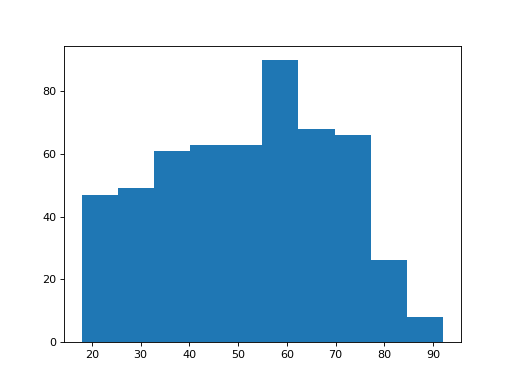
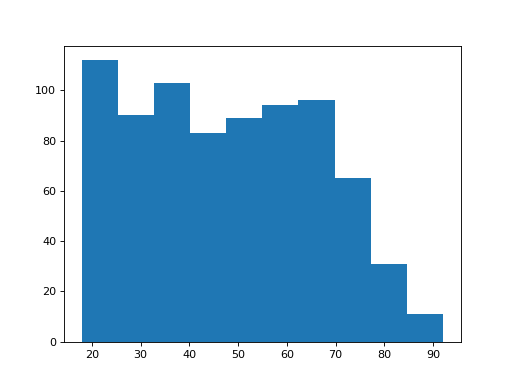
Update documentation

diff --git a/searchindex.js b/searchindex.js
@@ -1,1 +1,1 @@
-Search.setIndex({docnames:["brexit","index","setup_beforehand","simulating_chi2","when_where"],envversion:53,filenames:["brexit.rst","index.rst","setup_beforehand.rst","simulating_chi2.rst","when_where.rst"],objects:{},objnames:{},objtypes:{},terms:{"10am":4,"18th":2,"19th":4,"20th":4,"21st":4,"4pm":4,"break":3,"case":0,"class":4,"default":2,"final":0,"import":[0,3],"long":0,"new":[0,3],"return":3,"short":0,"true":3,"try":0,"while":3,And:0,But:0,For:0,The:[0,1,2,3,4],There:0,These:[0,1],Use:3,Yes:0,about:0,abov:[0,2],account:2,actual:0,actual_chi2:3,afternoon:4,again:0,age:0,ages:0,algorithm:1,all:[0,2,3,4],along:2,also:0,anaconda:2,analys:2,analysi:[0,2],ani:[0,2,3],answer:0,anytim:2,appear:0,append:3,around:4,arrai:3,ask:0,audit_data:0,audit_of_political_engagement_14_2017:0,avail:0,axi:3,back:0,becaus:0,befor:[0,4],beforehand:[1,4],begin:4,bham:2,bin:3,bioscienc:2,birmingham:1,bit:[0,2],blanklin:0,book:4,bother:2,brett:2,brexit_ag:0,bring:4,build:[2,4],busi:4,call:0,campu:4,can:[0,3],care:0,catalogu:0,chanc:0,check:0,chi2:3,choos:2,claim:0,clean:0,clear:0,cloud:2,clutter:0,code:0,coder:0,column:[0,3],column_tot:3,com:2,come:[0,2],comma:0,common:2,compar:0,comput:2,concat:0,confess:0,confid:0,consid:[0,3],consist:0,consol:[0,3],contain:0,continu:[0,3],conveni:0,convert:0,copi:0,count:3,cours:4,csv:0,cu0410:0,cu041:0,cu042:0,cu043:0,cu044:0,cu045:0,cu046:0,cu047:0,cu048:0,cu049:0,cut15:0,dai:[1,4],data:[0,2],def:3,delimit:0,depend:2,describ:0,detail:2,dictionari:0,did:0,differ:[0,4],directli:0,directori:0,discov:0,distribut:[0,2],document:0,doesn:2,don:4,download:[0,2],drawn:3,drop:0,each:[0,4],easi:2,els:3,email:2,empti:3,enabl:[0,3],engag:0,equal:[0,3],european:0,everi:0,example_t:3,expected_prob:3,expected_t:3,fals:[0,3],few:0,file:0,fill:1,find:0,first:[0,3,4],first_as_big:3,floor:2,focu:0,follow:[0,2],forev:3,forget:4,format:0,found:2,frame:0,free:2,freeli:0,from:[0,2,3],gener:2,geographi:4,get:[0,2,3,4],give:[0,3],going:[0,2],good:0,googl:0,graphic:2,ground:2,gs_tabl:3,hansard:0,has:0,have:[0,2],heart:4,hei:2,help:0,here:[0,2,3,4],hire:[0,3],hist:[0,3],histogram:0,hour:4,how:0,http:[0,2],idea:0,ident:0,implicit:0,index:0,individu:3,inform:0,inlin:[0,3],instal:2,instruct:2,interact:[0,3],interest:0,ipython:[0,3],is_man:3,is_studi:3,jupyt:[0,3],just:[0,2],keep:0,kingdom:0,know:[2,4],label:0,languag:2,laptop:4,larg:0,last:0,later:0,law:4,lead:1,leav:0,len:[0,3],let:0,librari:0,like:[0,3],linux:2,list:0,littl:2,load:0,look:0,lot:0,lucki:0,luckili:0,mac:2,made:0,make:[0,2,3],make_similar_t:3,make_t:3,man:3,map:4,matplotlib:[0,3],matthew:2,mean:0,member:0,memor:0,memori:0,men:3,might:0,moment:0,mondai:2,more:0,much:0,n_men:3,n_observ:3,n_repeat:3,name:0,nearli:2,need:[0,2,4],new_arrai:3,new_tabl:3,next:0,nice:0,notebook:[0,3],notic:[0,2],now:[0,2],numag:0,number:[0,3],number_as_big:3,numpi:3,o_minus_:3,observ:3,odd:0,oe2_:3,off:[0,4],offic:2,often:0,one:0,ones:0,onli:[0,3],onlin:0,open:2,oper:2,origin:[0,3],otherwis:0,our:[0,2],ourselv:0,out:[0,1,4],over:4,p_man:3,p_not_studi:3,p_studier:3,p_woman:3,packag:[0,2],page:1,panda:0,part:0,pdf:[0,3],peopl:[0,3],per:0,percentag:0,person:0,platform:2,pleas:4,plot:[0,3],plt:[0,3],png:[0,3],polit:0,popular:0,power:0,print:3,probabl:3,problem:2,prompt:2,proport:0,proportion_as_big:3,provid:2,put:0,pyplot:[0,3],python:[0,2],question:0,r15:4,random:3,rang:3,rather:0,read:0,read_csv:0,read_tabl:0,readi:0,recommend:2,record:0,reduc:0,refer:0,referendum:0,refus:0,remain:0,remain_leav:0,remain_leave_reload:0,rememb:0,remind:0,renam:0,respond:0,rich:0,room:4,row:[0,3],row_tot:3,run:[0,3],s_chi2:3,safe:0,sai:0,said:0,sampl:0,save:0,scienc:2,search:0,see:[0,2],seed:3,select:0,separ:0,septemb:4,servic:0,session:4,setup:[1,4],sg24:2,should:0,simpl:[0,2],simulated_chi2:3,simulated_t:3,site:0,slice:3,societi:0,someth:0,sort:3,sourc:2,sponsor:0,spot:0,spreadsheet:0,stack:0,stackoverflow:0,stand:0,standard:[0,2,4],start:[2,4],state:0,step:2,studier:3,subject:0,subscrib:2,sum:3,sure:4,survei:[0,3],system:2,tab:0,tabl:[0,3],term:4,text:0,thei:0,thi:[0,3,4],thing:0,those:0,three:4,through:0,thursdai:4,time:4,tini:0,to_csv:0,togeth:0,too:[0,3],toolkit:2,topic:0,total:[3,4],tuesdai:4,turn:4,two:[0,3],type:0,ukdataservic:0,unchang:0,unfortun:4,union:0,unit:0,univers:1,unless:2,until:3,use:[0,2,3],used:2,using:[0,2],valu:[0,3],vari:2,variabl:0,veri:0,version:2,vote:0,voter:0,wai:0,wait:0,want:[0,2],web:1,wednesdai:4,were:0,what:[0,2],when:1,where:[0,1],whether:0,which:[0,2],who:0,window:2,within:0,woman:3,work:0,wouldn:2,www:2,year:0,you:[0,2,4],young:0,your:[0,2,4],yourself:0,zero:3},titles:["Analyzing Brexit","A pilot course on teaching data analysis","Setup beforehand","Chi-squared by simulation","When and where"],titleterms:{analysi:1,analyz:0,beforehand:2,brexit:0,chi:3,cours:1,data:1,pilot:1,setup:2,simul:3,squar:3,teach:1,when:4,where:4}})
+Search.setIndex({docnames:["brexit","index","setup_beforehand","simulating_chi2","when_where"],envversion:53,filenames:["brexit.rst","index.rst","setup_beforehand.rst","simulating_chi2.rst","when_where.rst"],objects:{},objnames:{},objtypes:{},terms:{"10am":4,"18th":2,"19th":4,"20th":4,"21st":4,"4pm":4,"break":3,"case":0,"class":4,"default":2,"final":0,"function":0,"import":[0,3],"long":0,"new":[0,3],"return":3,"short":0,"true":3,"try":0,"while":3,And:0,But:0,For:0,The:[0,1,2,3,4],There:0,These:[0,1],Use:3,Yes:0,about:0,abov:[0,2],account:2,actual:0,actual_chi2:3,afternoon:4,again:0,age:0,ages:0,algorithm:1,all:[0,2,3,4],along:2,also:0,anaconda:2,analys:2,analysi:[0,2],ani:[0,2,3],answer:0,anytim:2,appear:0,append:3,around:4,arrai:3,ask:0,audit_data:0,audit_of_political_engagement_14_2017:0,avail:0,axi:3,back:0,becaus:0,befor:[0,4],beforehand:[1,4],begin:4,bham:2,bin:3,bioscienc:2,birmingham:1,bit:[0,2],blanklin:0,book:4,bother:2,brett:2,brexit_ag:0,bring:4,build:[2,4],busi:4,call:0,campu:4,can:[0,3],care:0,catalogu:0,chanc:0,check:0,chi2:3,choos:2,claim:0,clean:0,clear:0,cloud:2,clutter:0,code:0,coder:0,column:[0,3],column_tot:3,com:2,come:[0,2],comma:0,common:2,compar:0,comput:2,concat:0,confess:0,confid:0,consid:[0,3],consist:0,consol:[0,3],contain:0,continu:[0,3],conveni:0,convert:0,copi:0,count:3,cours:4,csv:0,cu0410:0,cu041:0,cu042:0,cu043:0,cu044:0,cu045:0,cu046:0,cu047:0,cu048:0,cu049:0,cut15:0,dai:[1,4],data:[0,2],def:3,delimit:0,depend:2,describ:0,detail:2,dictionari:0,did:0,differ:[0,4],directli:0,directori:0,discov:0,distribut:[0,2],document:0,doesn:2,don:4,download:[0,2],drawn:3,drop:0,each:[0,4],easi:2,els:3,email:2,empti:3,enabl:[0,3],engag:0,equal:[0,3],european:0,everi:0,example_t:3,expected_prob:3,expected_t:3,fals:[0,3],few:0,file:0,fill:1,find:0,first:[0,3,4],first_as_big:3,floor:2,focu:0,follow:[0,2],forev:3,forget:4,format:0,found:2,frame:0,free:2,freeli:0,from:[0,2,3],gener:2,geographi:4,get:[0,2,3,4],give:[0,3],going:[0,2],good:0,googl:0,graphic:2,ground:2,gs_tabl:3,hansard:0,has:0,have:[0,2],heart:4,hei:2,help:0,here:[0,2,3,4],hire:[0,3],hist:[0,3],histogram:0,hour:4,how:0,http:[0,2],idea:0,ident:0,implicit:0,index:0,individu:3,inform:0,inlin:[0,3],instal:2,instruct:2,interact:[0,3],interest:0,ipython:[0,3],is_man:3,is_studi:3,jupyt:[0,3],just:[0,2],keep:0,kingdom:0,know:[2,4],label:0,languag:2,laptop:4,larg:0,last:0,later:0,law:4,lead:1,leav:0,len:[0,3],let:0,librari:0,like:[0,3],linux:2,list:0,littl:2,load:0,look:0,lot:0,lucki:0,luckili:0,mac:2,made:0,make:[0,2,3],make_similar_t:3,make_t:3,man:3,map:4,matplotlib:[0,3],matthew:2,mean:0,member:0,memor:0,memori:0,men:3,might:0,moment:0,mondai:2,more:0,much:0,n_men:3,n_observ:3,n_repeat:3,name:0,nearli:2,need:[0,2,4],new_arrai:3,new_tabl:3,next:0,nice:0,notebook:[0,3],notic:[0,2],now:[0,2],numag:0,number:[0,3],number_as_big:3,numpi:3,o_minus_:3,observ:3,odd:0,oe2_:3,off:[0,4],offic:2,often:0,one:0,ones:0,onli:[0,3],onlin:0,open:2,oper:2,origin:[0,3],otherwis:0,our:[0,2],ourselv:0,out:[0,1,4],over:4,p_man:3,p_not_studi:3,p_studier:3,p_woman:3,packag:[0,2],page:1,panda:0,part:0,pdf:[0,3],peopl:[0,3],per:0,percentag:0,person:0,platform:2,pleas:4,plot:[0,3],plt:[0,3],png:[0,3],polit:0,popular:0,power:0,print:3,probabl:3,problem:2,prompt:2,proport:0,proportion_as_big:3,provid:2,put:0,pyplot:[0,3],python:[0,2],question:0,r15:4,random:3,rang:3,rather:0,read:0,read_csv:0,read_tabl:0,readi:0,recommend:2,record:0,reduc:0,refer:0,referendum:0,refus:0,remain:0,remain_leav:0,remain_leave_reload:0,rememb:0,remind:0,renam:0,respond:0,rich:0,room:4,row:[0,3],row_tot:3,run:[0,3],s_chi2:3,safe:0,sai:0,said:0,sampl:0,save:0,scienc:2,search:0,see:[0,2],seed:3,select:0,separ:0,septemb:4,servic:0,session:4,setup:[1,4],sg24:2,should:0,simpl:[0,2],simulated_chi2:3,simulated_t:3,site:0,slice:3,societi:0,someth:0,sort:3,sourc:2,sponsor:0,spot:0,spreadsheet:0,stack:0,stackoverflow:0,stand:0,standard:[0,2,4],start:[2,4],state:0,step:2,studier:3,subject:0,subscrib:2,sum:3,sure:4,survei:[0,3],system:2,tab:0,tabl:[0,3],term:4,text:0,thei:0,thi:[0,3,4],thing:0,those:0,three:4,through:0,thursdai:4,time:4,tini:0,to_csv:0,togeth:0,too:[0,3],toolkit:2,topic:0,total:[3,4],tuesdai:4,turn:4,two:[0,3],type:0,ukdataservic:0,unchang:0,unfortun:4,union:0,unit:0,univers:1,unless:2,until:3,use:[0,2,3],used:2,using:[0,2],valu:[0,3],vari:2,variabl:0,veri:0,version:2,vote:0,voter:0,wai:0,wait:0,want:[0,2],web:1,wednesdai:4,were:0,what:[0,2],when:1,where:[0,1],whether:0,which:[0,2],who:0,window:2,within:0,woman:3,work:0,wouldn:2,www:2,year:0,you:[0,2,4],young:0,your:[0,2,4],yourself:0,zero:3},titles:["Analyzing Brexit","A pilot course on teaching data analysis","Setup beforehand","Chi-squared by simulation","When and where"],titleterms:{analysi:1,analyz:0,beforehand:2,brexit:0,chi:3,cours:1,data:1,pilot:1,setup:2,simul:3,squar:3,teach:1,when:4,where:4}})

diff --git a/brexit.html b/brexit.html
@@ -230,7 +230,13 @@ that 1 is the code for a No vote:</p>
 </pre></div>
 </div>
 <p>In this sample, what are the proportion of Leave voters, compared to all those
-who will confess to a vote?</p>
+who will confess to a vote?  We use the <code class="docutils literal"><span class="pre">len</span></code> function to get the number of
+cases in each data frame:</p>
+<div class="highlight-python"><div class="highlight"><pre><span></span><span class="gp">&gt;&gt;&gt; </span><span class="nb">len</span><span class="p">(</span><span class="n">brexiteers</span><span class="p">)</span>
+<span class="go">541</span>
+</pre></div>
+</div>
+<p>Now for the proportion:</p>
 <div class="highlight-python"><div class="highlight"><pre><span></span><span class="gp">&gt;&gt;&gt; </span><span class="nb">len</span><span class="p">(</span><span class="n">brexiteers</span><span class="p">)</span> <span class="o">/</span> <span class="p">(</span><span class="nb">len</span><span class="p">(</span><span class="n">brexiteers</span><span class="p">)</span> <span class="o">+</span> <span class="nb">len</span><span class="p">(</span><span class="n">remainers</span><span class="p">))</span>
 <span class="go">0.4114068441064639</span>
 </pre></div>
@@ -245,18 +251,18 @@ who will confess to a vote?</p>
 <span class="go">(...)</span>
 </pre></div>
 </div>
-<p>(<a class="reference external" href=".//brexit-12.png">png</a>, <a class="reference external" href=".//brexit-12.hires.png">hires.png</a>, <a class="reference external" href=".//brexit-12.pdf">pdf</a>)</p>
+<p>(<a class="reference external" href=".//brexit-13.png">png</a>, <a class="reference external" href=".//brexit-13.hires.png">hires.png</a>, <a class="reference external" href=".//brexit-13.pdf">pdf</a>)</p>
 <div class="figure">
-<img alt="_images/brexit-12.png" src="_images/brexit-12.png" />
+<img alt="_images/brexit-13.png" src="_images/brexit-13.png" />
 </div>
 <p>How about the ages of the Brexiteers?</p>
 <div class="highlight-python"><div class="highlight"><pre><span></span><span class="gp">&gt;&gt;&gt; </span><span class="n">plt</span><span class="o">.</span><span class="n">hist</span><span class="p">(</span><span class="n">brexiteers</span><span class="p">[</span><span class="s1">&#39;age&#39;</span><span class="p">])</span>
 <span class="go">(...)</span>
 </pre></div>
 </div>
-<p>(<a class="reference external" href=".//brexit-13.png">png</a>, <a class="reference external" href=".//brexit-13.hires.png">hires.png</a>, <a class="reference external" href=".//brexit-13.pdf">pdf</a>)</p>
+<p>(<a class="reference external" href=".//brexit-14.png">png</a>, <a class="reference external" href=".//brexit-14.hires.png">hires.png</a>, <a class="reference external" href=".//brexit-14.pdf">pdf</a>)</p>
 <div class="figure">
-<img alt="_images/brexit-13.png" src="_images/brexit-13.png" />
+<img alt="_images/brexit-14.png" src="_images/brexit-14.png" />
 </div>
 <p>These distributions look different.  But — how different are they?  And how
 confident can we be that this difference did not come about by chance?</p>
